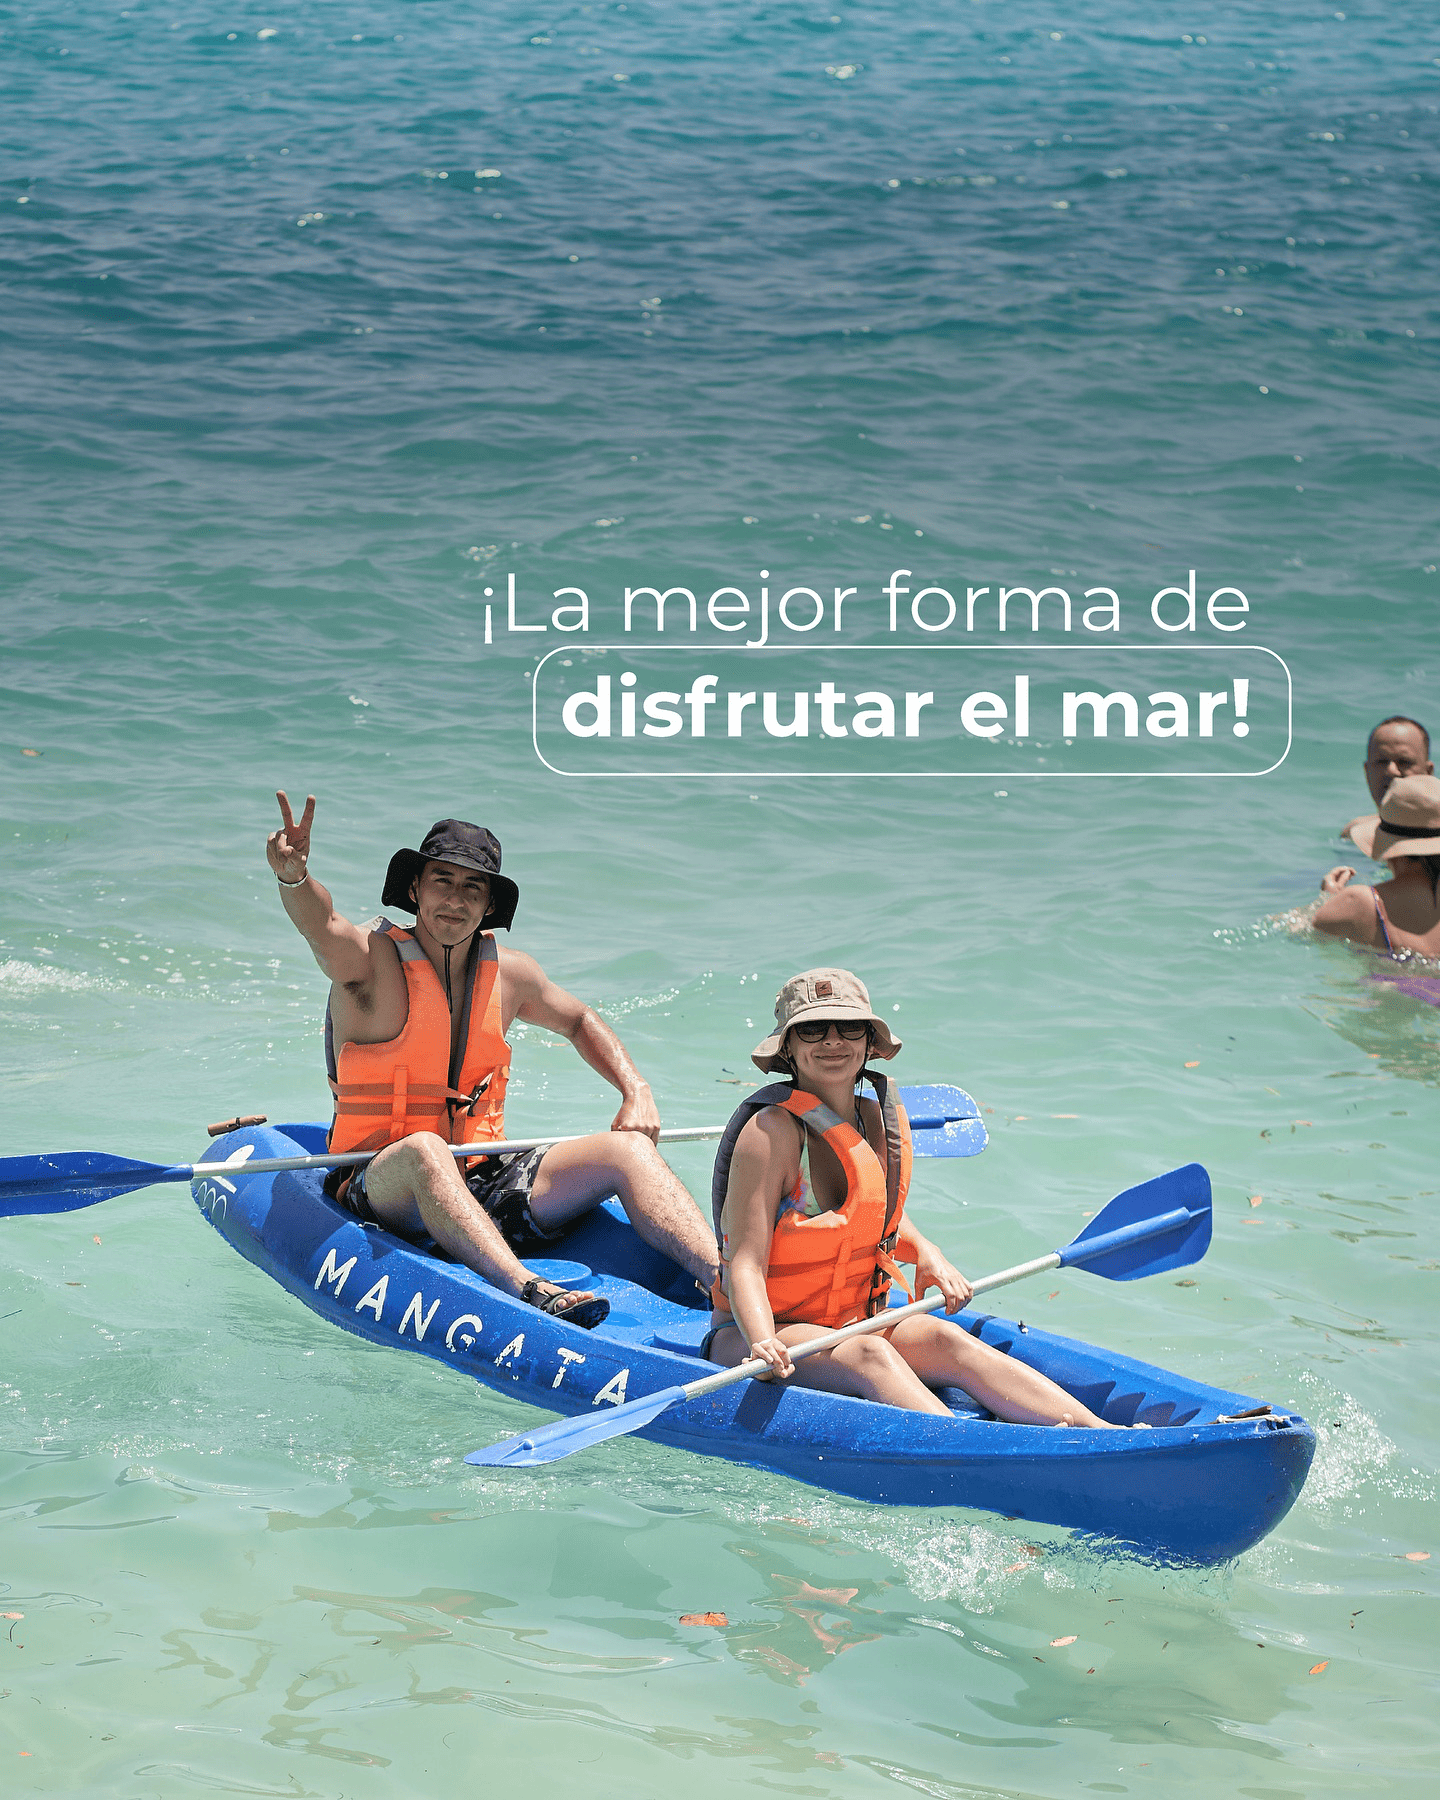
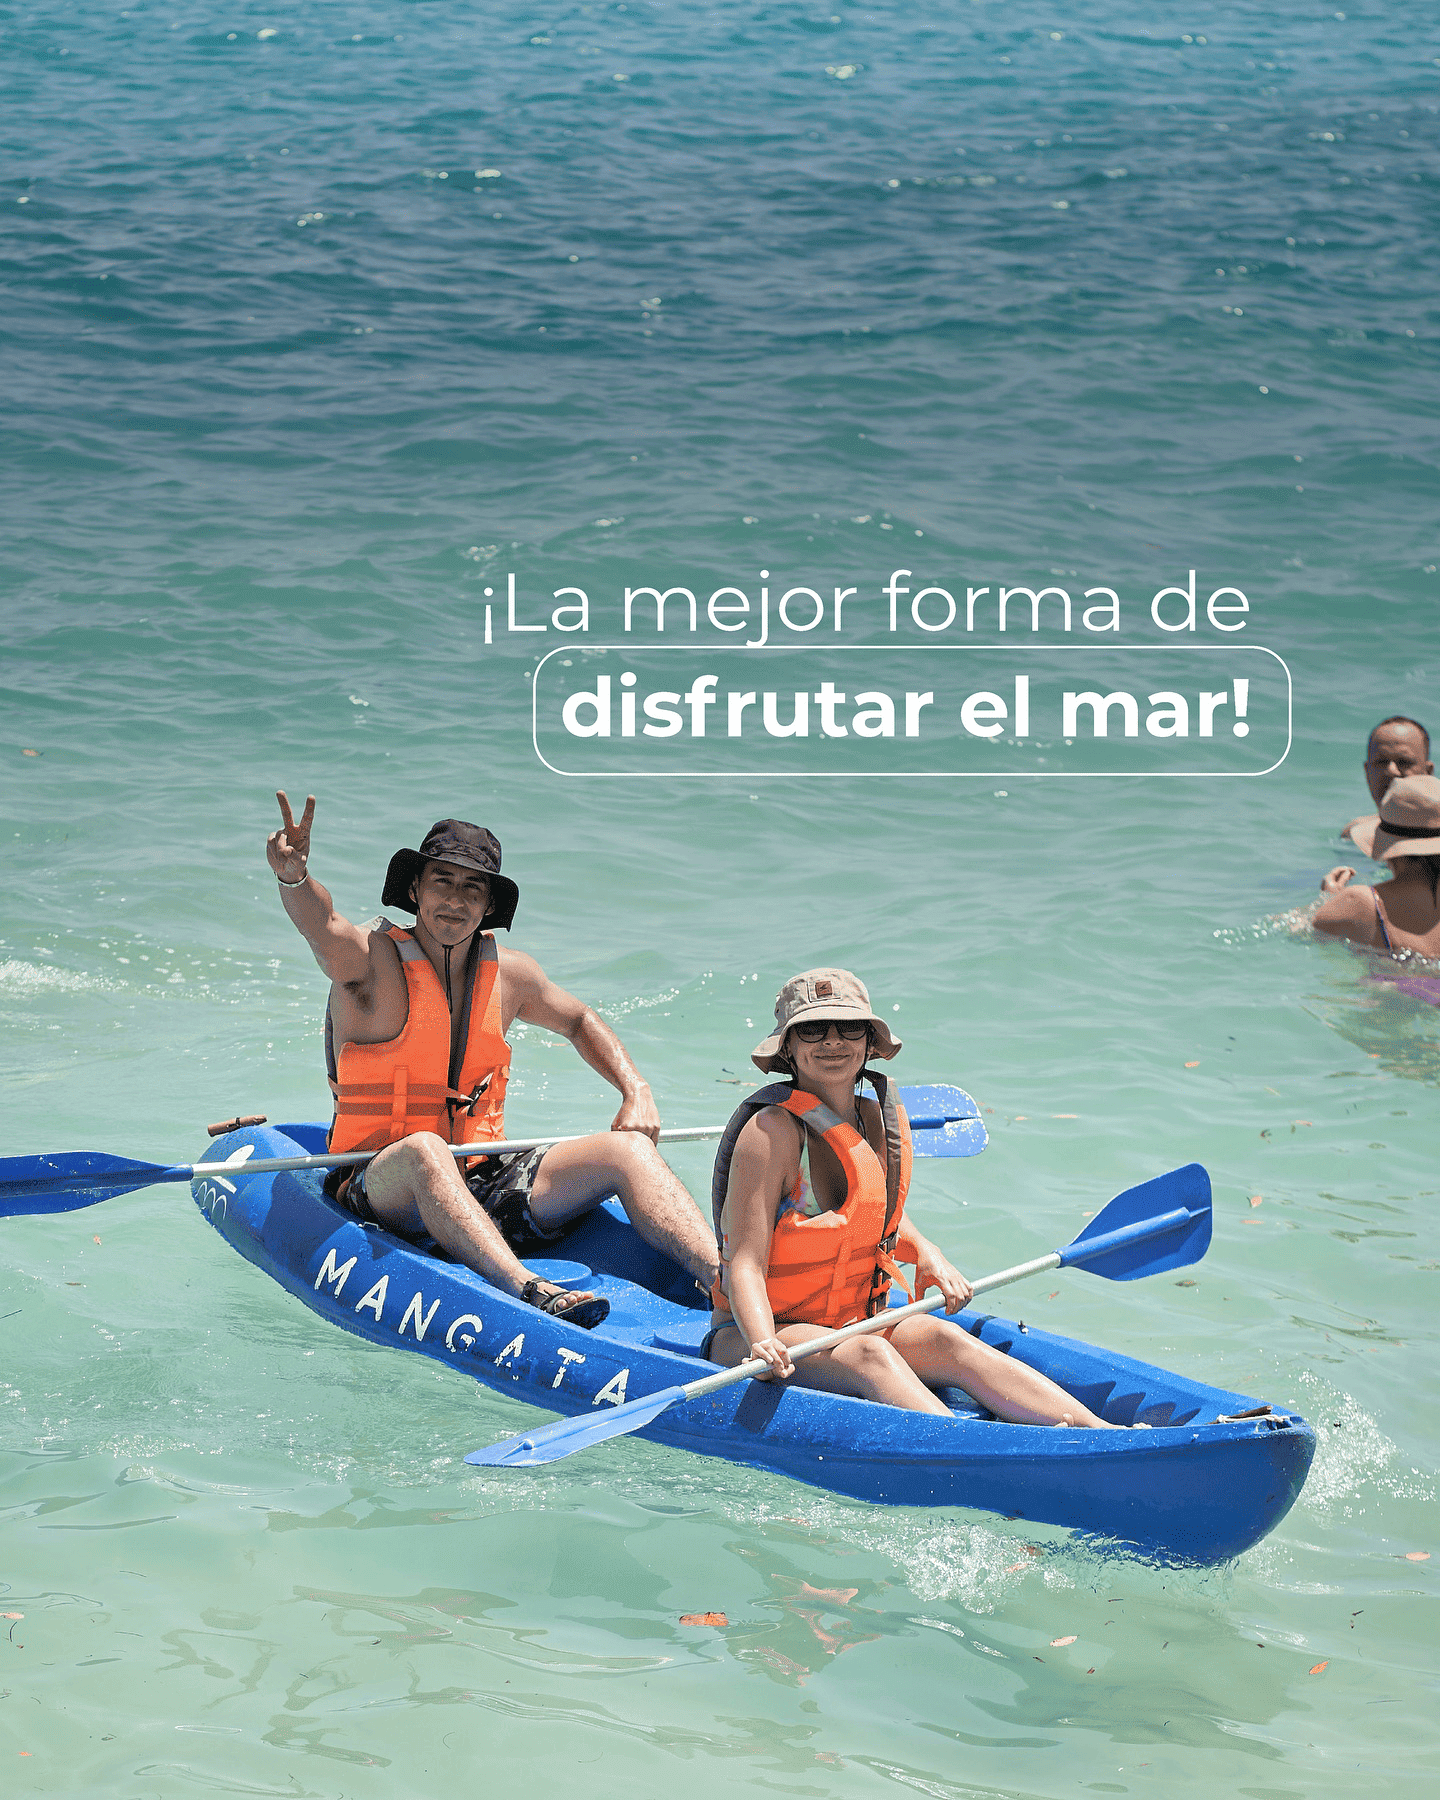
se comprimen las imagenes

diff --git a/Client/src/utils/api/Request.ts b/Client/src/utils/api/Request.ts
@@ -25,8 +25,7 @@ api.interceptors.request.use(
 const redirect = (error: any) => {
   console.log(error);
   if (error.response.status === 403) {
-    // Redirecciona al login
-    window.location.href = "/login";
+    window.location.href = "/";
     localStorage.removeItem("info");
   }
   return Promise.reject(error);
